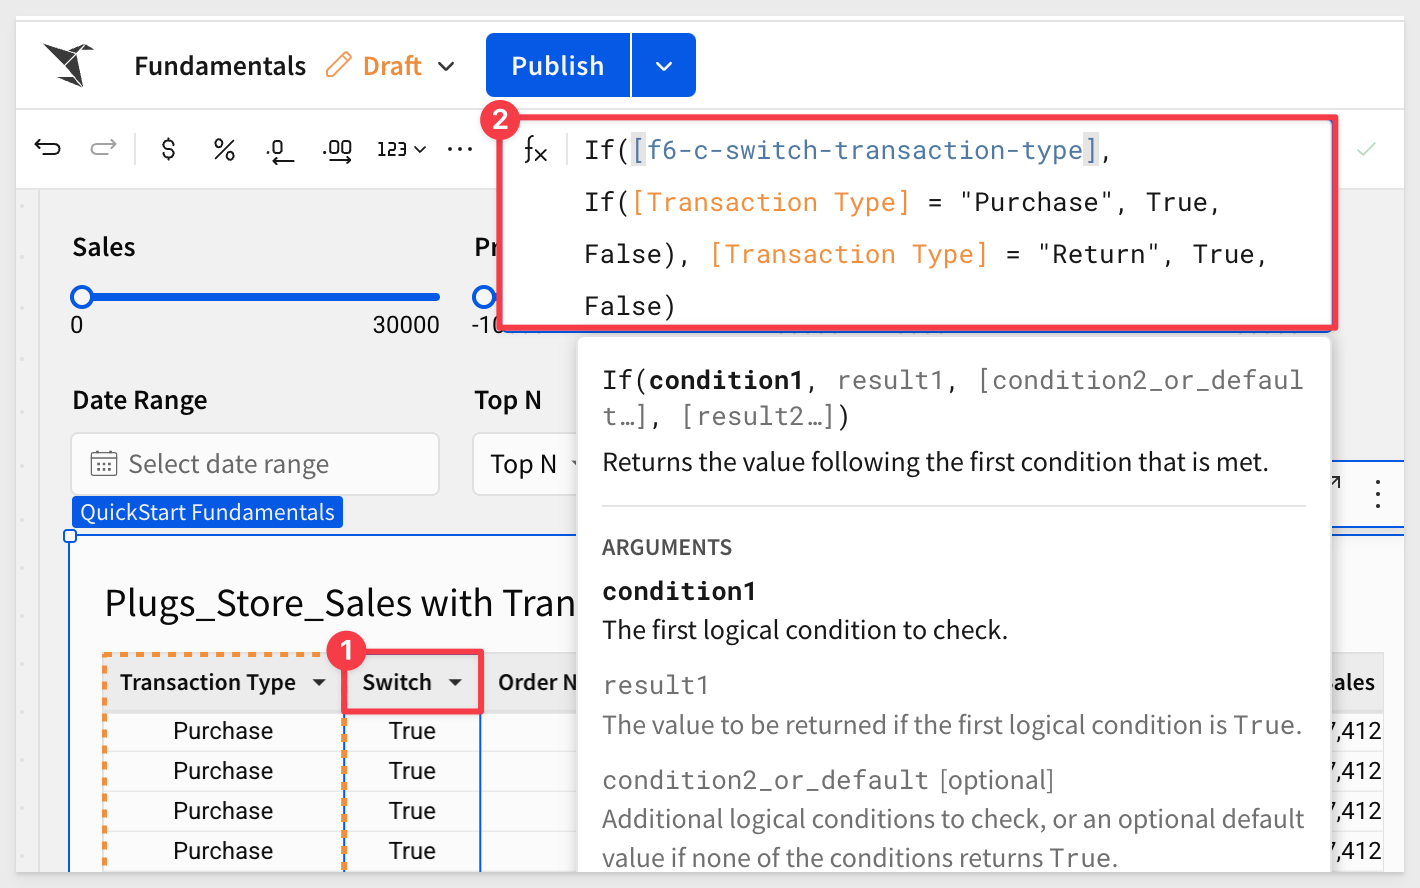
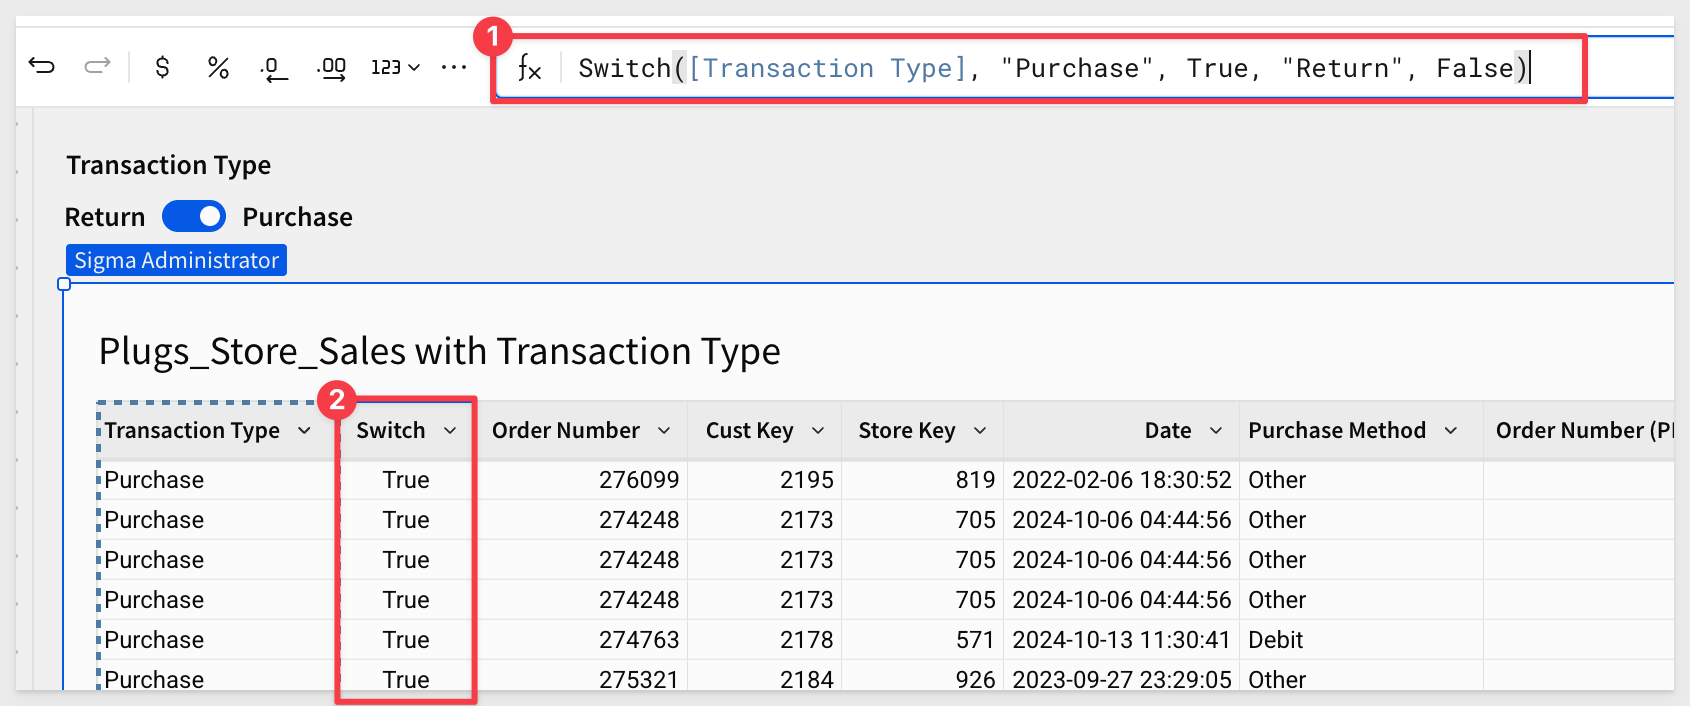
fundamentals-6-fix

diff --git a/site/sigmaguides/src/Fundamentals 6: Controls - v3/fundamentals_6_controls.md b/site/sigmaguides/src/Fundamentals 6: Controls - v3/fundamentals_6_controls.md
@@ -27,7 +27,7 @@ To read more about [creating flexible reports with parameters, see here.](https:
 
 If you already completed QuickStart fundamentals 1-5, you have already used controls. 
 
-In [Fundamentals 2 - Data](http://localhost:8000/guide/fundamentals-2-data/index.html?index=..%2F..index#2), we created a filter directly from a table column (Store Region), and converted that filter into a page control. This control is an example of a `List control`.
+In [Fundamentals 2 - Data](https://quickstarts.sigmacomputing.com/guide/fundamentals_2_data_v3/index.html?index=..%2F..index#2), we created a filter directly from a table column (Store Region), and converted that filter into a page control. This control is an example of a `List control`.
 
 Selecting the correct control is often more art than science, as there are many controls to choose from.
 
@@ -294,7 +294,7 @@ Also notice that the `DATA SOURCE` indicates `+ 1` to let us know that there is 
 <img src="assets/fcontrols_19.png" width="800"/>
 
 ### Add the switch control
-Add a `Switch` control to the page, rename it `Transaction Type` and set it's `Control ID` to `f6-c-switch-transaction-type`.
+Add a `Switch` control to the page, rename it `Transaction Type` and set it's `Control ID` to `f6-c-switch-transaction-type` and the `Filter Type` to `True/False`.
 
 We can now toggle the switch control on and off, but the table is "aware" of it yet.
 
@@ -303,8 +303,10 @@ We need to make the table respond to this controls value, as it is changed.
 Add a new column next to `Transaction Type`, rename it to `Switch`, and set its formula to:
 
 ```code
-If([f6-c-switch-transaction-type], If([Transaction Type] = "Purchase", True, False), [Transaction Type] = "Return", True, False)
+Switch([Transaction Type], "Purchase", True, "Return", False)
 ```
+
+You can also change the control labels under `Format` > `LABEL` to replace On/Off with Purchase/Return.
 
 <img src="assets/fcontrols_20.png" width="650"/>
 
@@ -312,34 +314,9 @@ If([f6-c-switch-transaction-type], If([Transaction Type] = "Purchase", True, Fal
 <strong>NOTE:</strong><br> This function allows for dynamic filtering based on the state of a switch control and the type of transaction. When the switch is TRUE, it filters for “Purchase” transactions. When the switch is FALSE, it filters for “Return” transactions. 
 </aside>
 
-#### How It Works in Detail:
-  <li><strong>When [f6-c-switch-transaction-type] is TRUE:</strong> 
-    <ul>
-        <li>The function checks if Transaction Type is “Purchase”.</li>
-        <li>If Transaction Type is “Purchase”, the function returns TRUE.</li>
-        <li>If Transaction Type is not “Purchase”, the function returns FALSE.</li>
-        </ul>
-    </li>
-    <li><strong>When [switch-example] is FALSE:</strong> 
-        <ul>
-        <li>The function checks if Transaction Type is “Return”.</li>
-        <li>If Transaction Type is “Return”, the function returns TRUE.</li>
-        <li>If Transaction Type is not “Return”, the function returns FALSE.</li>
-        </ul>
-    </li>
-</ul>
-
 <img src="assets/horizonalline.png" width="800"/>
 
-The last step is to add a table filter on the `Switch` column so that it responds to changes from the control.
-
-Be sure to select only the True value, as that is what the control should be set to while we create this filter.
-
-<aside class="negative">
-<strong>NOTE:</strong><br> We made sure all the other controls we set to allow all 4.5M rows appear in the table. You may have to refresh your browser if they count is not as expected, once the controls are set.
-</aside>
-
-<img src="assets/fcontrols_21.png" width="650"/>
+In the switch controls configuration, add the `PLUGS_SALES` table as a `TARGET` and select the `Switch` column under that.
 
 Now we can toggle between `Purchase` and `Return` transactions:
 
